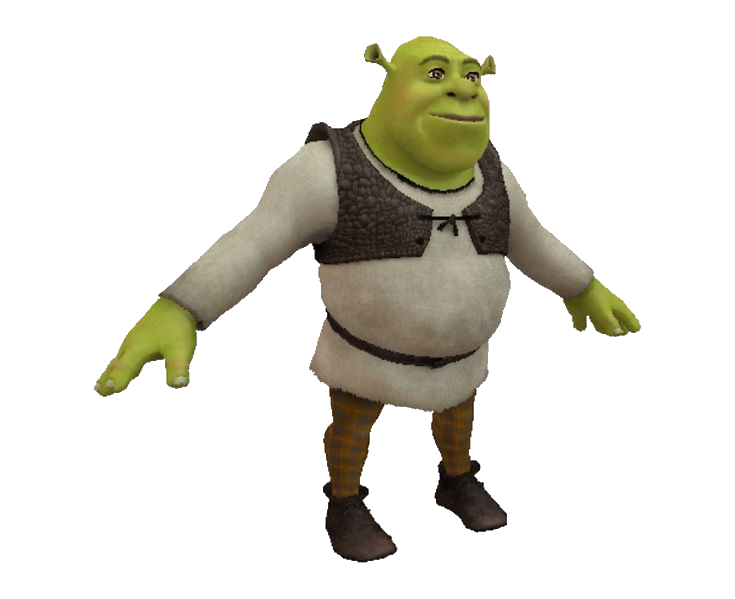
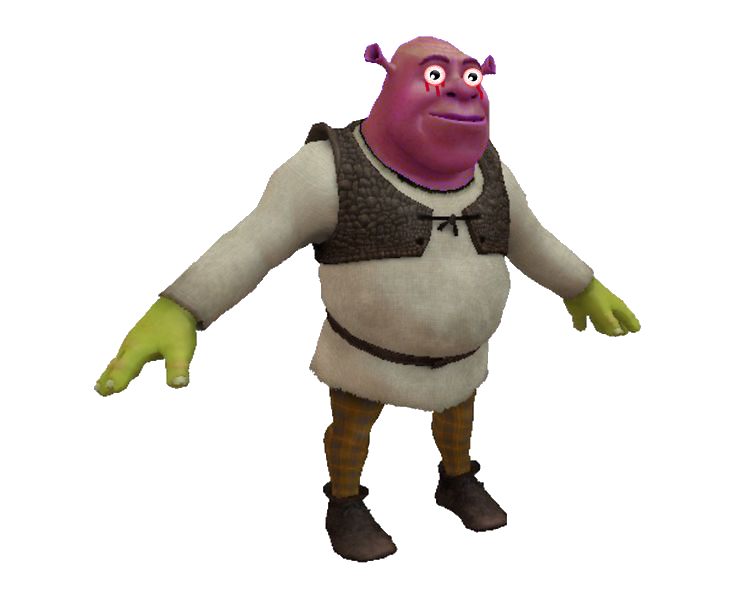
Added gallows and modified shrek art

Changed region(s): [[0.4789, 0.0601, 0.6884, 0.3306]]

diff --git a/src/GamePane.java b/src/GamePane.java
@@ -26,15 +26,17 @@ public class GamePane extends Pane {
     int incorrectGuessCount;
     int correctGuessCount;
     private ImageView hangmanImage;
+    private ImageView gallowsImage;
 
     public GamePane() {
         spacing = 1.05;
         wordToGuess = getRandomWord(words);
         letterButtonsOfWordToGuess = new ArrayList<>();
         letterButtonsOfAlphabet = new ArrayList<>();
+        initializeGallowsImage();
+        initializeHangmanImage();
         drawLetterButtons();
         incorrectGuessCount = 0;
-        initializeHangmanImage();
 
         for (int i = 0; i < wordToGuess.length(); i++) {
             letterButton = new LetterButton(0, wordToGuessY, Character.MIN_VALUE);
@@ -45,6 +47,7 @@ public class GamePane extends Pane {
             getChildren().add(letterButton);
             letterButtonsOfWordToGuess.add(letterButton);
         }
+        
     }
 
     public void drawLetterButtons() {
@@ -65,13 +68,24 @@ public class GamePane extends Pane {
     }
 
     private void initializeHangmanImage() {
-        this.hangmanImage = new ImageView(); 
-        this.hangmanImage.setFitWidth(350);
-        this.hangmanImage.setFitHeight(350);
-        this.hangmanImage.setTranslateX(50);
-        this.hangmanImage.setTranslateY(50);
+        hangmanImage = new ImageView(); 
+        hangmanImage.setFitWidth(350);
+        hangmanImage.setFitHeight(350);
+        hangmanImage.setTranslateX(60);
+        hangmanImage.setTranslateY(180);
+        hangmanImage.setScaleX(0.85);
+        hangmanImage.setScaleY(0.85);
         updateHangmanImage(); 
         getChildren().add(this.hangmanImage); 
+    }
+    private void initializeGallowsImage() {
+        gallowsImage = new ImageView();
+        gallowsImage.setTranslateX(-200);
+        gallowsImage.setTranslateY(100);
+        gallowsImage.setScaleX(1.5);
+        gallowsImage.setScaleY(1.5);
+        updateGallowsImage();
+        getChildren().add(gallowsImage); 
     }
 
     private void updateHangmanImage() {
@@ -81,6 +95,14 @@ public class GamePane extends Pane {
         else
             image = new Image("images//shrek-6.png");
         hangmanImage.setImage(image);
+    }
+    private void updateGallowsImage() {
+        Image image;
+        if (incorrectGuessCount <= 5)
+            image = new Image("images//gallows-closed.png");
+        else
+            image = new Image("images//gallows-open.png");
+        gallowsImage.setImage(image);
     }
 
     public void guessLetter(char letter) {
@@ -114,7 +136,9 @@ public class GamePane extends Pane {
         incorrectGuessCount++;
         System.out.println("Total wrong guesses: " + incorrectGuessCount); 
 
+        updateGallowsImage();
         updateHangmanImage();
+        
 
         if(incorrectGuessCount >= 6){
             showEndGamePopup("You Lose! The word was " + wordToGuess);
